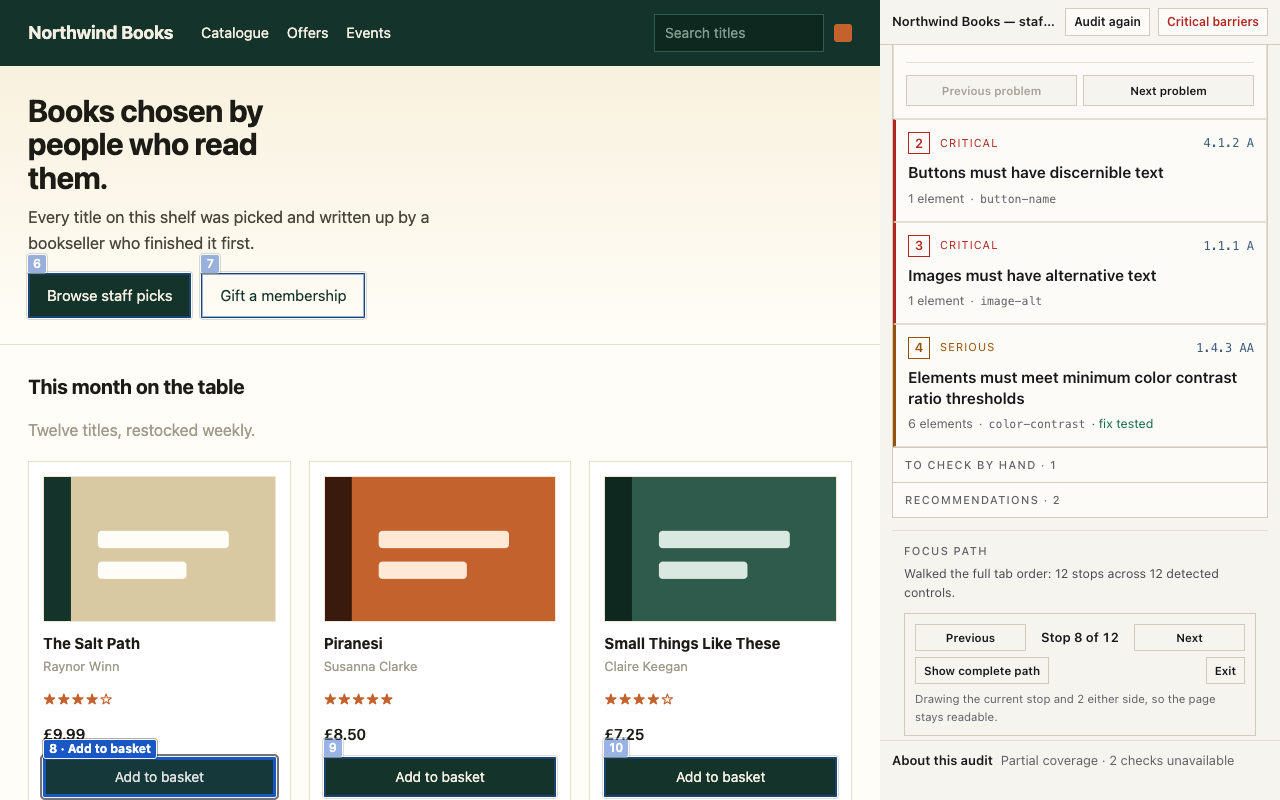
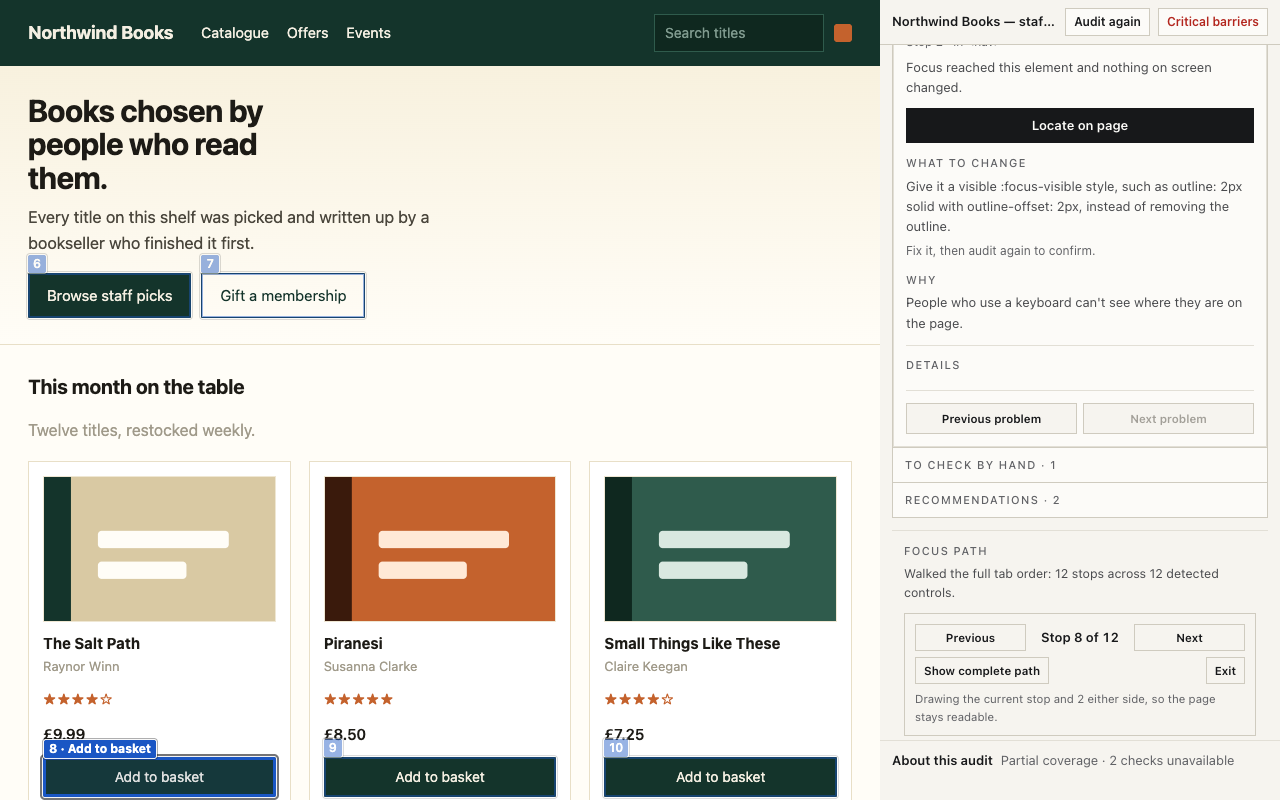
chore(extension): release 1.3.1
Bumps the extension to 1.3.1 for the ordering fix, notes it in the
listing, and regenerates the two store screenshots whose queue order the
fix changed: the keyboard finding now sits after the critical ones.

Changed region(s): [[0.6875, 0.0625, 1.0, 0.5312]]

diff --git a/extension/STORE-LISTING.md b/extension/STORE-LISTING.md
@@ -6,7 +6,7 @@ submitted automatically.
 ## Basics
 
 - **Item name:** AccessCheck
-- **Version:** 1.3.0
+- **Version:** 1.3.1
 - **Category:** Developer Tools
 - **Default language:** English (United States)
 - **Visibility:** Public
@@ -142,7 +142,13 @@ Certifications to accept, all of which the code supports:
 > extension's own checks and the fix verification, without attaching the
 > debugger at all.
 
-## What changed since 1.2.1
+## What changed in 1.3.1
+
+- The queue puts the most severe problem first again. A serious problem the
+  extension measured itself, such as target size or a missing focus ring, no
+  longer sorts ahead of a critical one from axe.
+
+## What changed in 1.3.0 (since 1.2.1)
 
 - The panel works as a queue: To fix, To check by hand and Recommendations,
   with a top line such as "7 to fix · 3 to check by hand".
